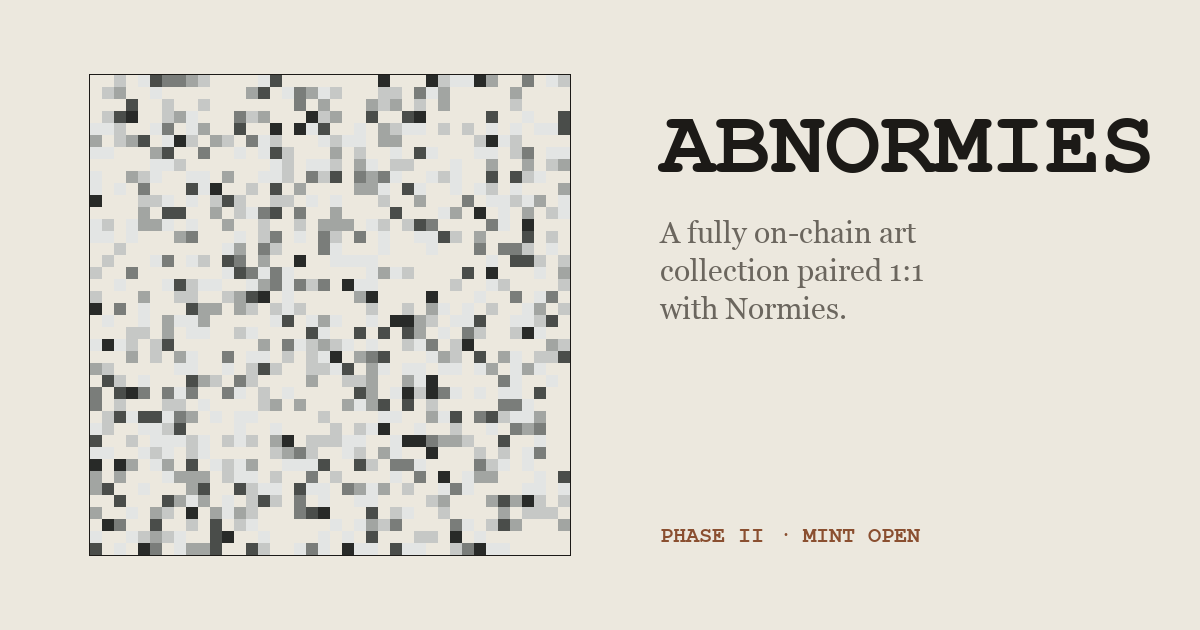
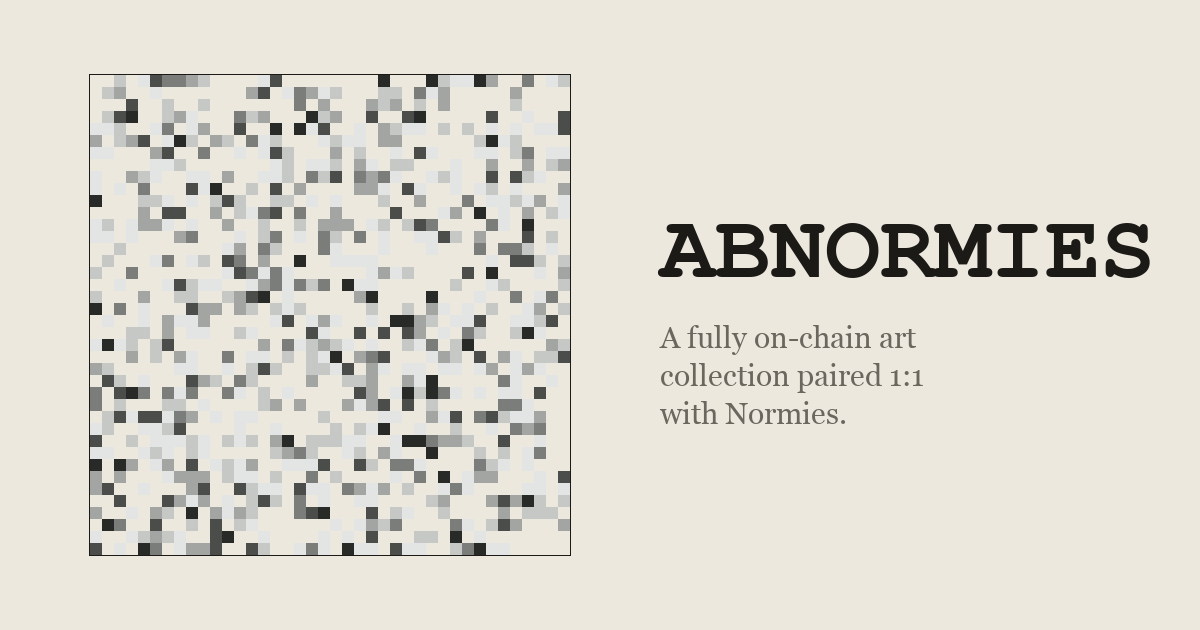
Regenerate og.png without phase/mint text; version og:image
The social card had 'PHASE II · MINT OPEN' baked in, stale now that the
collection is launched. Drop the status line and vertically center the
wordmark + tagline so the card stays evergreen. og:image/twitter:image
carry a content-hashed query so X / Discord pull the new card instead of
a stale cached one.

diff --git a/app/scripts/build-og.py b/app/scripts/build-og.py
@@ -51,25 +51,20 @@ draw.rectangle(
     outline=TEXT, width=1,
 )
 
-# Right half: wordmark + tagline + status.
+# Right half: wordmark + tagline, vertically centered against the grid. No
+# phase/mint status line — the collection is fully launched, so the card stays
+# evergreen with nothing left to go stale.
 TEXT_X = GRID_X + GRID_W + 90
 
 title_font = ImageFont.truetype("/System/Library/Fonts/Supplemental/Courier New Bold.ttf", 92)
 sub_font = ImageFont.truetype("/System/Library/Fonts/Supplemental/Georgia.ttf", 30)
-status_font = ImageFont.truetype("/System/Library/Fonts/Supplemental/Courier New Bold.ttf", 22)
 
-draw.text((TEXT_X, GRID_Y + 20), "ABNORMIES", font=title_font, fill=TEXT)
+draw.text((TEXT_X, GRID_Y + 125), "ABNORMIES", font=title_font, fill=TEXT)
 
 draw.text(
-    (TEXT_X, GRID_Y + 140),
+    (TEXT_X, GRID_Y + 245),
     "A fully on-chain art\ncollection paired 1:1\nwith Normies.",
     font=sub_font, fill=MUTED, spacing=10,
-)
-
-draw.text(
-    (TEXT_X, GRID_Y + GRID_W - 32),
-    "PHASE II · MINT OPEN",
-    font=status_font, fill=ACCENT,
 )
 
 # Write to site repo root (one dir up from app/, then one more for site/).
